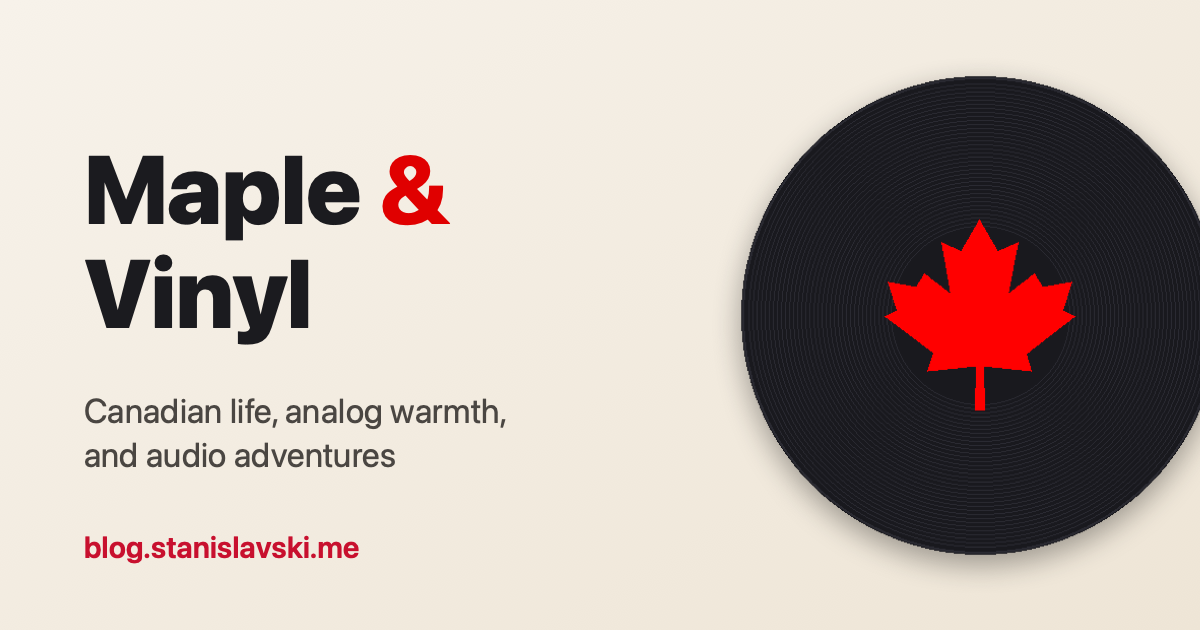
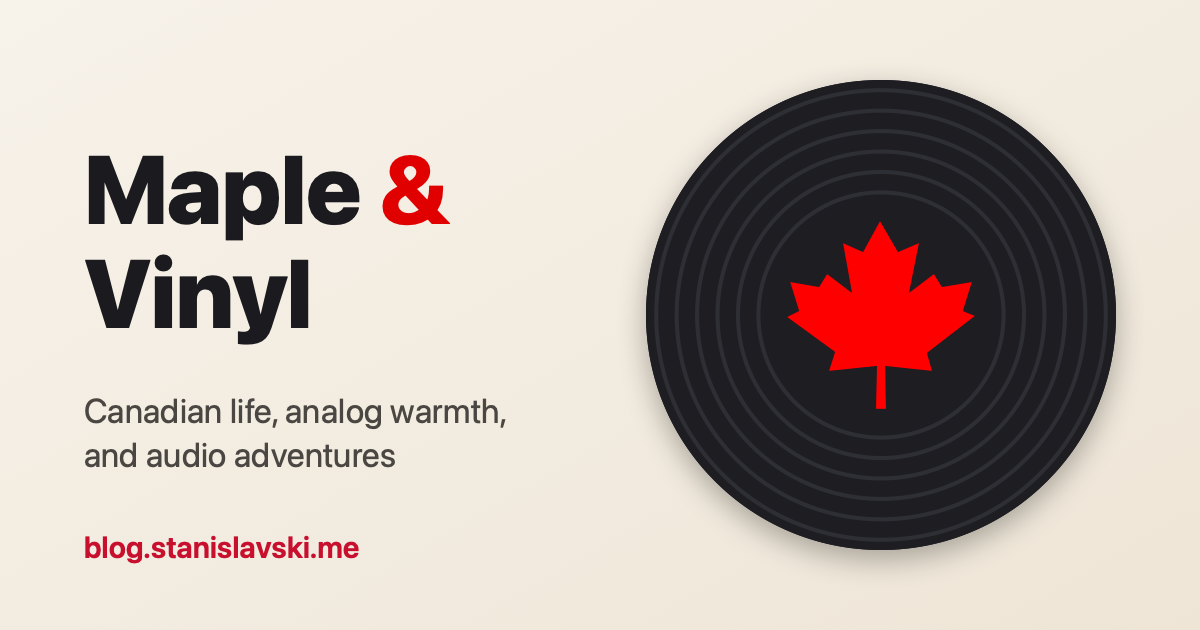
Draw the site card's record as vectors, whole
The record on og.png was the 512 px icon scaled up and cut by the right
edge. It is now drawn with the same shapes as icon.svg, the traced leaf
included, and sits inside the card with the same margin as the text.
One generator, tools/icons.swift, draws the icons and the card.

Changed region(s): [[0.5242, 0.1206, 1.0, 0.9048], [0.6475, 0.3619, 0.8942, 0.6635]]

diff --git a/tools/icons.swift b/tools/icons.swift
@@ -1,13 +1,19 @@
 import AppKit
 
-// Draws the blog's icon set into static/ from its record-and-maple-leaf
-// icon (the upload /img/2026/01/favicon-512.png), the way
-// wishlist.stanislavski.me and vinyl.stanislavski.me have theirs:
+// Draws the blog's icon set and its link-preview card into static/ from
+// its record-and-maple-leaf icon (the upload
+// /img/2026/01/favicon-512.png), the way wishlist.stanislavski.me and
+// vinyl.stanislavski.me have theirs:
 //
 //	icon.svg              any size, for browsers that take SVG icons
 //	favicon-32.png        32×32 for the rest
 //	favicon.ico           the same 32×32 PNG in an ICO, for /favicon.ico
 //	apple-touch-icon.png  180×180, opaque (iOS rounds the corners itself)
+//	og.png                1200×630 card for pages without a picture: name,
+//	                      tagline, domain, the record (owner chose the light
+//	                      scheme of three drawn: light, red, dark)
+//
+// Every record is drawn as vectors with the same numbers as icon.svg.
 //
 // The leaf is traced from the icon's red pixels and simplified to a
 // polygon, so every size has the logo's leaf. Runs on a Mac (AppKit):
@@ -144,4 +150,51 @@ var size = UInt32(p32.count).littleEndian, offset = UInt32(22).littleEndian
 ico.append(Data(bytes: &size, count: 4)); ico.append(Data(bytes: &offset, count: 4)); ico.append(p32)
 try! ico.write(to: URL(fileURLWithPath: "\(out)/favicon.ico"))
 try! png(drawIcon(180, background: rgb(0xf7f2ea), recordScale: 0.86)).write(to: URL(fileURLWithPath: "\(out)/apple-touch-icon.png"))
+// og.png: text on the left as in the owner's other cards, the record whole
+// on the right.
+do {
+    let W: CGFloat = 1200, H: CGFloat = 630
+    let rep = NSBitmapImageRep(bitmapDataPlanes: nil, pixelsWide: Int(W), pixelsHigh: Int(H), bitsPerSample: 8,
+                               samplesPerPixel: 4, hasAlpha: true, isPlanar: false, colorSpaceName: .deviceRGB,
+                               bytesPerRow: 0, bitsPerPixel: 0)!
+    NSGraphicsContext.saveGraphicsState()
+    NSGraphicsContext.current = NSGraphicsContext(bitmapImageRep: rep)
+    let ctx = NSGraphicsContext.current!.cgContext
+    NSGradient(starting: rgb(0xf7f2ea), ending: rgb(0xeee5d6))!.draw(in: NSRect(x: 0, y: 0, width: W, height: H), angle: -60)
+
+    // The disc is 0.92 of the 0…1 box: a 470 px disc, 84 px from the
+    // right edge like the text from the left one, centred in height.
+    let d: CGFloat = 470, box = d / 0.92
+    let cxR = W - 84 - d / 2, cyR = H / 2
+    ctx.saveGState()
+    ctx.setShadow(offset: CGSize(width: 0, height: -10), blur: 30, color: NSColor.black.withAlphaComponent(0.3).cgColor)
+    ctx.setFillColor(disc.cgColor)
+    ctx.fillEllipse(in: CGRect(x: cxR - d / 2, y: cyR - d / 2, width: d, height: d))
+    ctx.restoreGState()
+    ctx.saveGState()
+    ctx.translateBy(x: cxR - box / 2, y: cyR + box / 2)
+    ctx.scaleBy(x: box, y: -box)
+    recordPath(ctx)
+    ctx.restoreGState()
+
+    func font(_ size: CGFloat, _ weight: NSFont.Weight) -> NSFont { NSFont.systemFont(ofSize: size, weight: weight) }
+    let left: CGFloat = 84
+    let ink = rgb(0x1b1b1f), tf = font(96, .heavy)
+    let title = NSMutableAttributedString(string: "Maple ", attributes: [.font: tf, .foregroundColor: ink])
+    title.append(NSAttributedString(string: "&", attributes: [.font: tf, .foregroundColor: rgb(0xe00000)]))
+    title.append(NSAttributedString(string: "\nVinyl", attributes: [.font: tf, .foregroundColor: ink]))
+    let para = NSMutableParagraphStyle()
+    para.lineHeightMultiple = 0.92
+    title.addAttribute(.paragraphStyle, value: para, range: NSRange(location: 0, length: title.length))
+    title.draw(in: NSRect(x: left, y: 250, width: 560, height: 240))
+    let tag = NSMutableParagraphStyle()
+    tag.lineSpacing = 4
+    NSAttributedString(string: "Canadian life, analog warmth,\nand audio adventures",
+                       attributes: [.font: font(34, .regular), .foregroundColor: rgb(0x4a4642), .paragraphStyle: tag])
+        .draw(in: NSRect(x: left, y: 140, width: 560, height: 100))
+    NSAttributedString(string: "blog.stanislavski.me", attributes: [.font: font(30, .semibold), .foregroundColor: rgb(0xc8102e)])
+        .draw(at: NSPoint(x: left, y: 66))
+    NSGraphicsContext.restoreGraphicsState()
+    try! png(rep).write(to: URL(fileURLWithPath: "\(out)/og.png"))
+}
 print("leaf: \(leaf.count) points from \(pts.count) edge steps")

diff --git a/README.md b/README.md
@@ -37,7 +37,8 @@ renders a page in a few milliseconds.
 - **Site card**: the home page, tag pages and posts without a cover share
   a 1200×630 card (`static/og.png`: "Maple & Vinyl", the tagline, the
   domain and the record-and-maple-leaf icon), drawn on a Mac by
-  `tools/og-card.swift` (how to run it is at the top of the file).
+  `tools/icons.swift` with the icons (how to run it is at the top of the
+  file).
 - **Covers** are 1.91:1 everywhere, the shape of link cards on Bluesky,
   Facebook and elsewhere: on the post page, in the post list and in
   `og:image` and the Bluesky card. A frame over the uploaded cover in the
